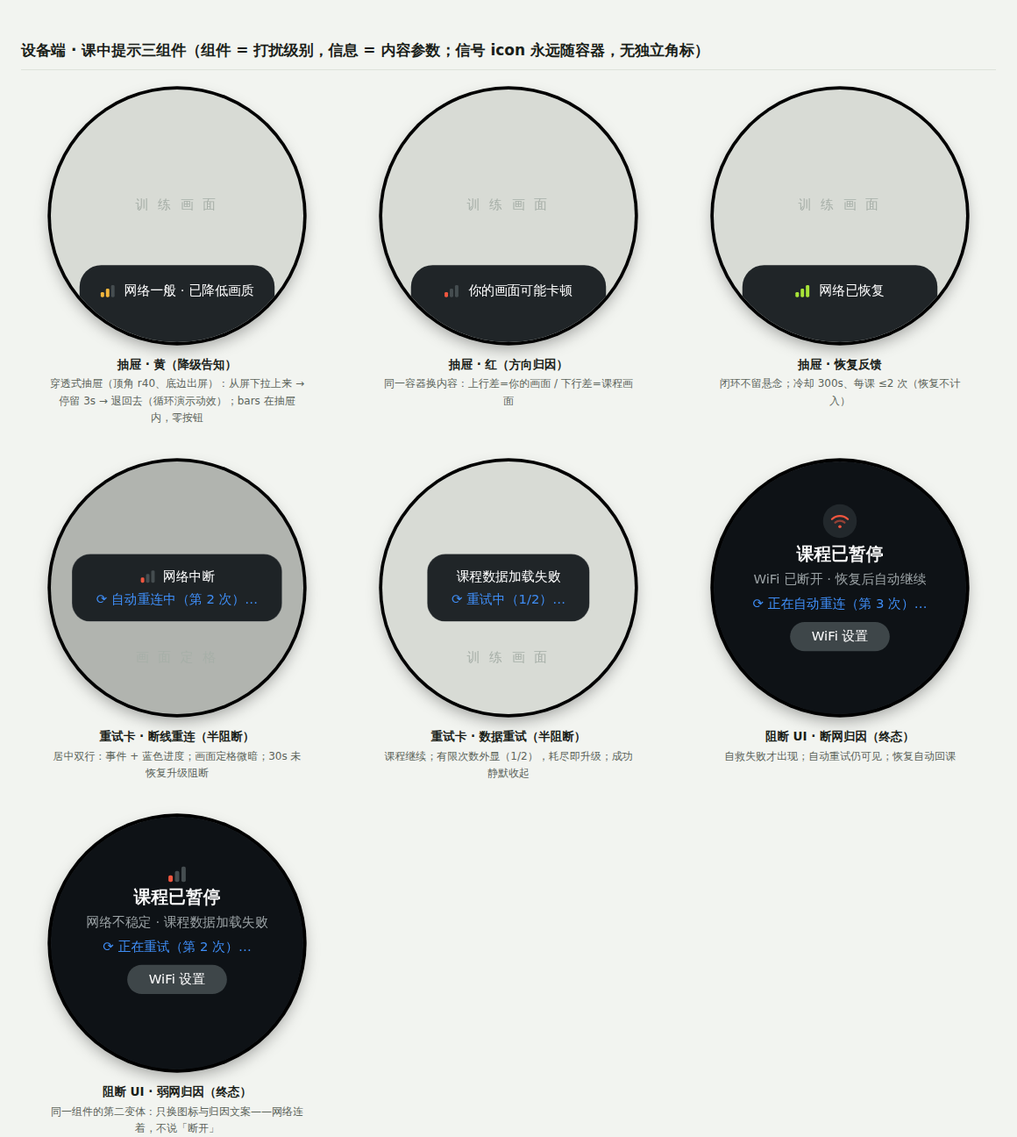
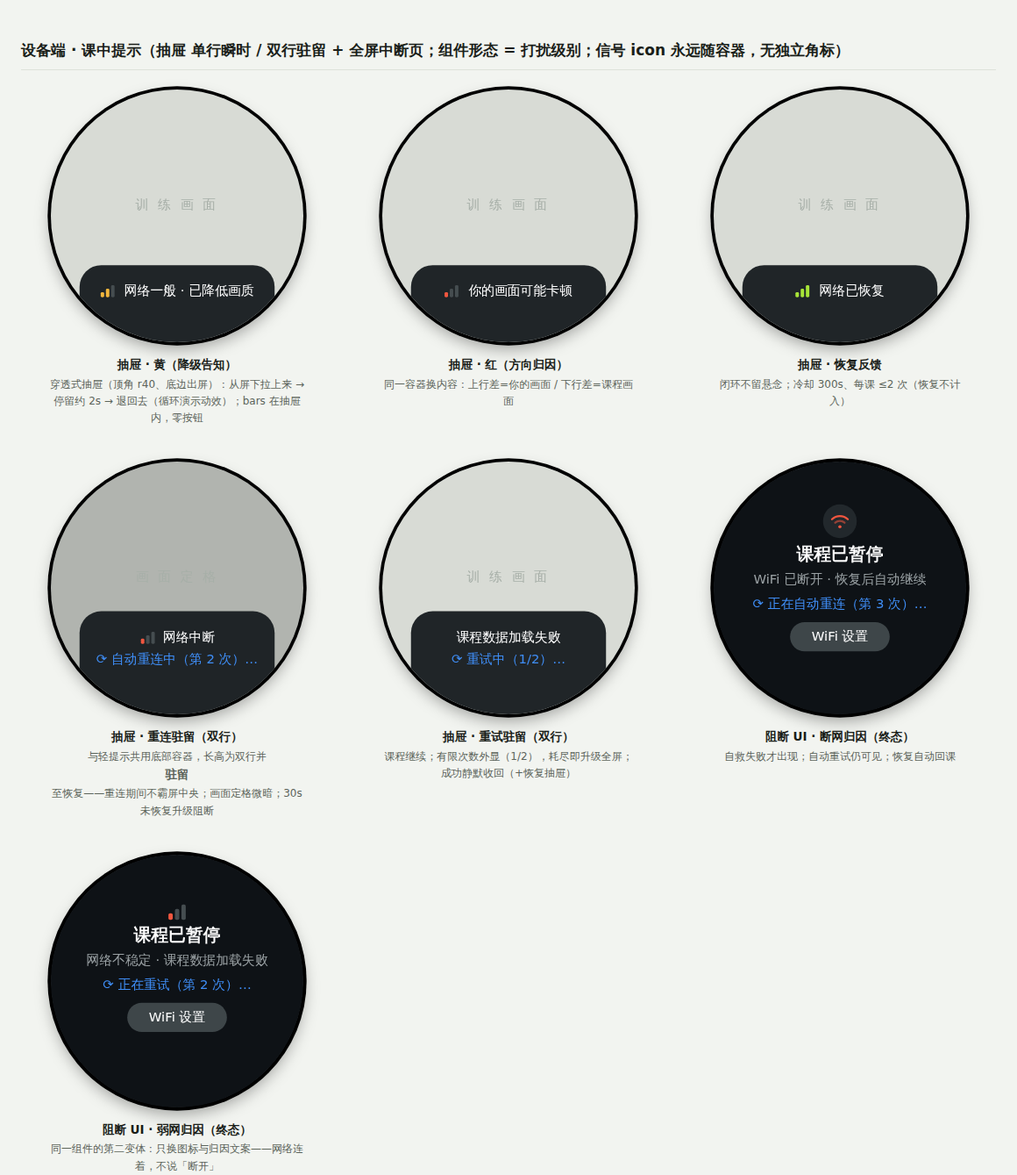
Merge retry card into the bottom drawer and add boundary/empty-state screens
In-class model per review: never interrupt while the system is still
retrying. The centered retry card is retired - medium-level hints now
share the same bottom drawer container as light hints:
- Single-line drawer: rise, hold ~2s (tightened from 3s, OTA-tunable),
  retract; cooldown/cap unchanged
- Two-line resident drawer: same container grows taller (visible
  ~190px) with event line + blue progress line, stays up during
  reconnect/retry without covering screen center; escalates to the
  fullscreen page only after 30s grace or retry exhaustion
- Disturbance level is now expressed by dwell time and container
  height in one fixed location, instead of position jumps
Update PRD-3 (component/style tables, position semantics with decision
record, state machine, event matrix, params), overview copy table, dev
checklist, README, C reference comments; regenerate drawer motion GIF
with both phases; re-export in-class figures

Speed-test app edge cases: new demo section with four screens (never
tested / no Wi-Fi / class-in-session disabled / 40s timeout with <3
samples drawn as dots only), exported and embedded in PRD-2 A4.8; add
two A4.8 rows (exit during test, class start during test)

Claude-Session: https://claude.ai/code/session_01GK61VJL6HvXSFdCeuPzjiU

diff --git a/Demo-界面交互UI设计.html b/Demo-界面交互UI设计.html
@@ -130,15 +130,19 @@
     background: rgba(26,31,34,.97); border-radius: 40px 40px 0 0;
     padding: 0 20px 46px; display: flex; align-items: center; justify-content: center;
     gap: 12px; font-size: 24px; color: #fff; white-space: nowrap;
-    animation: drawer-cycle 5.6s infinite; animation-delay: -1.2s;
+    animation: drawer-cycle 4.5s infinite; animation-delay: -1.2s;
   }
-  /* 升起 0.45s → 停留 3s → 收回 0.45s → 隐藏间歇 */
+  /* 单行轻提示：升起 0.45s → 停留约 2s → 收回 0.45s → 隐藏间歇 */
   @keyframes drawer-cycle {
     0% { transform: translate(-50%, 110%); animation-timing-function: cubic-bezier(.16,.84,.28,1); }
-    8% { transform: translate(-50%, 0); }
-    62% { transform: translate(-50%, 0); animation-timing-function: cubic-bezier(.55,.06,.68,.19); }
-    70%, 100% { transform: translate(-50%, 110%); }
+    10% { transform: translate(-50%, 0); }
+    54.4% { transform: translate(-50%, 0); animation-timing-function: cubic-bezier(.55,.06,.68,.19); }
+    64.4%, 100% { transform: translate(-50%, 110%); }
   }
+  /* 双行驻留形态：与单行共用底部容器，升高一点，重连/重试期间常驻（不霸屏中央） */
+  .drawer.two { height: 190px; flex-direction: column; gap: 6px; padding: 0 20px 52px; }
+  .drawer.two .dl2 { color: var(--dev-info); white-space: nowrap; }
+  .drawer.hold { animation: none; transform: translate(-50%, 0); }
   @media (prefers-reduced-motion: reduce) { .drawer { animation: none; } }
 
   /* 检测中波形：逐点刷新动画（每点=一次真实回调；段绘制 0.35s + 光晕脉冲；12s 循环演示） */
@@ -461,7 +465,62 @@
   </div>
 
   <!-- ═══ 设备 · 课中：三组件模型 ═══ -->
-  <h2>设备端 · 课中提示三组件（组件 = 打扰级别，信息 = 内容参数；信号 icon 永远随容器，无独立角标）</h2>
+  <h2>设备端 · 小程序边界与空态</h2>
+  <div class="grid">
+    <figure class="shot">
+      <div class="device"><div class="screen">
+        <div style="flex:1"></div>
+        <span class="bars"><i class="b1 dim"></i><i class="b2 dim"></i><i class="b3 dim"></i></span>
+        <div class="big-status" style="margin-top:8px" data-en="Not tested yet">尚未测速</div>
+        <div style="font-size:24px; color:var(--dev-sub); margin-top:6px">FITURE-5G</div>
+        <div class="btn" style="margin-top:22px" data-en="Test speed">测速</div>
+        <div style="flex:1"></div>
+      </div></div>
+      <figcaption><b>空态 · 从未测速（新机 / 恢复出厂）</b><span>三格全暗 + 「尚未测速」；不显示时效行（没有可声明时效的数据）；主按钮不变</span></figcaption>
+    </figure>
+
+    <figure class="shot">
+      <div class="device"><div class="screen">
+        <div style="flex:1"></div>
+        <svg width="52" height="40" viewBox="8 14 36 28"><path d="M14 24a17 17 0 0 1 24 0" stroke="#5c6568" stroke-width="3.4" fill="none" stroke-linecap="round"/><path d="M18.5 29a11 11 0 0 1 15 0" stroke="#5c6568" stroke-width="3.4" fill="none" stroke-linecap="round"/><circle cx="26" cy="34.5" r="2.8" fill="#5c6568"/><line x1="12" y1="38" x2="40" y2="16" stroke="#f0563f" stroke-width="3" stroke-linecap="round"/></svg>
+        <div class="big-status" style="margin-top:8px" data-en="No Wi-Fi connection">未连接 WiFi</div>
+        <div style="font-size:24px; color:var(--dev-sub); margin-top:6px" data-en="Connect to test speed">连接后可测速</div>
+        <div class="btn primary" style="margin-top:22px" data-en="Wi-Fi Settings">WiFi 设置</div>
+        <div style="flex:1"></div>
+      </div></div>
+      <figcaption><b>空态 · 未连接 WiFi</b><span>隐藏测速按钮（测了也没有意义）；主按钮 = 最短解决路径</span></figcaption>
+    </figure>
+
+    <figure class="shot">
+      <div class="device"><div class="screen">
+        <div style="flex:1"></div>
+        <span class="bars"><i class="b1" style="background:var(--dev-good)"></i><i class="b2" style="background:var(--dev-good)"></i><i class="b3" style="background:var(--dev-good)"></i></span>
+        <div class="big-status" style="margin-top:8px" data-en="Good speed">网速良好</div>
+        <div style="font-size:24px; color:var(--dev-sub); margin-top:6px" data-en="Class in session · unavailable">课程中暂不可测速</div>
+        <div class="btn" style="margin-top:22px; opacity:.38" data-en="Test speed">测速</div>
+        <div style="flex:1"></div>
+      </div></div>
+      <figcaption><b>边界 · 课程进行中（B1 课中互斥）</b><span>入口置灰 + 副行说明，不弹窗；课中灯色由 TRTC 回调驱动，完整测速与上课互斥</span></figcaption>
+    </figure>
+
+    <figure class="shot">
+      <div class="device"><div class="screen">
+        <div style="flex:.72"></div>
+        <span class="bars sm"><i class="b1 dim"></i><i class="b2 dim"></i><i class="b3 dim"></i></span>
+        <div class="big-status" style="margin-top:2px" data-en="Test timed out">检测超时</div>
+        <div class="report-card" style="margin-top:12px; padding-top:12px">
+          <svg width="330" height="40" viewBox="0 0 330 40"><line x1="0" y1="39.5" x2="330" y2="39.5" stroke="rgba(255,255,255,.22)" stroke-width="1"/><circle cx="0" cy="14" r="1.9" fill="#f2f5f6"/><circle cx="48" cy="11" r="1.9" fill="#f2f5f6"/><circle cx="0" cy="28" r="1.9" fill="#8fc2f5"/><circle cx="48" cy="26" r="1.9" fill="#8fc2f5"/></svg><div class="rc-axis"><span>0s</span><span style="opacity:.4">…40s 超时</span></div>
+          <div style="font-size:15px; color:var(--dev-sub); margin-top:4px"><span style="color:#f2f5f6">↓</span> <span data-en="Down">下行</span>&nbsp;&nbsp;<span style="color:#8fc2f5">↑</span> <span data-en="Up">上行</span>&nbsp;·&nbsp;Mbps</div>
+        </div>
+        <div class="rc-notes" style="height:64px"><div style="font-size:24px; color:var(--dev-sub)" data-en="Check network and retest">检查网络后重测</div></div>
+        <div class="btn-row"><div class="btn ghost" data-en="Retest">重测</div><div class="btn primary">OK</div></div>
+        <div style="flex:.8"></div>
+      </div></div>
+      <figcaption><b>边界 · 检测超时（40s 硬超时）</b><span>不给灯色；已回传的半程样本 &lt;3 点<b>只画点不连线</b>（样本不足不下结论、不出派生标签），随上报带出</span></figcaption>
+    </figure>
+  </div>
+
+  <h2>设备端 · 课中提示（抽屉 单行瞬时 / 双行驻留 + 全屏中断页；组件形态 = 打扰级别；信号 icon 永远随容器，无独立角标）</h2>
   <div class="grid">
 
     <figure class="shot">
@@ -470,7 +529,7 @@
         <div class="class-hint-light" data-en="W O R K O U T">训 练 画 面</div>
         <div class="drawer"><span class="bars" style="transform:scale(.8); transform-origin:left center"><i class="b1" style="background:var(--dev-warn)"></i><i class="b2" style="background:var(--dev-warn)"></i><i class="b3 dim"></i></span><span data-en="Quality reduced">网络一般 · 已降低画质</span></div>
       </div></div>
-      <figcaption><b>抽屉 · 黄（降级告知）</b><span>穿透式抽屉（顶角 r40、底边出屏）：从屏下拉上来 → 停留 3s → 退回去（循环演示动效）；bars 在抽屉内，零按钮</span></figcaption>
+      <figcaption><b>抽屉 · 黄（降级告知）</b><span>穿透式抽屉（顶角 r40、底边出屏）：从屏下拉上来 → 停留约 2s → 退回去（循环演示动效）；bars 在抽屉内，零按钮</span></figcaption>
     </figure>
 
     <figure class="shot">
@@ -494,19 +553,19 @@
     <figure class="shot">
       <div class="device"><div class="screen">
         <div class="class-bg-light" style="filter:brightness(.82)"></div>
-        <div class="class-hint-light" style="top:74%" data-en="F R O Z E N">画 面 定 格</div>
-        <div class="retry-card"><div style="display:flex; align-items:center; justify-content:center; gap:12px"><span class="bars" style="transform:scale(.8); transform-origin:center"><i class="b1" style="background:var(--dev-bad)"></i><i class="b2 dim"></i><i class="b3 dim"></i></span><span data-en="Connection lost">网络中断</span></div><div class="rt2" data-en="⟳ Reconnecting (attempt 2)…">⟳ 自动重连中（第 2 次）…</div></div>
+        <div class="class-hint-light" style="top:42%" data-en="F R O Z E N">画 面 定 格</div>
+        <div class="drawer two hold"><div style="display:flex; align-items:center; justify-content:center; gap:12px"><span class="bars" style="transform:scale(.8); transform-origin:center"><i class="b1" style="background:var(--dev-bad)"></i><i class="b2 dim"></i><i class="b3 dim"></i></span><span data-en="Connection lost">网络中断</span></div><div class="dl2" data-en="⟳ Reconnecting (attempt 2)…">⟳ 自动重连中（第 2 次）…</div></div>
       </div></div>
-      <figcaption><b>重试卡 · 断线重连（半阻断）</b><span>居中双行：事件 + 蓝色进度；画面定格微暗；30s 未恢复升级阻断</span></figcaption>
+      <figcaption><b>抽屉 · 重连驻留（双行）</b><span>与轻提示共用底部容器，长高为双行并<b>驻留</b>至恢复——重连期间不霸屏中央；画面定格微暗；30s 未恢复升级阻断</span></figcaption>
     </figure>
 
     <figure class="shot">
       <div class="device"><div class="screen">
         <div class="class-bg-light"></div>
-        <div class="class-hint-light" style="top:74%" data-en="W O R K O U T">训 练 画 面</div>
-        <div class="retry-card"><div data-en="Data load failed">课程数据加载失败</div><div class="rt2" data-en="⟳ Retrying (1/2)…">⟳ 重试中（1/2）…</div></div>
+        <div class="class-hint-light" style="top:42%" data-en="W O R K O U T">训 练 画 面</div>
+        <div class="drawer two hold"><div data-en="Data load failed">课程数据加载失败</div><div class="dl2" data-en="⟳ Retrying (1/2)…">⟳ 重试中（1/2）…</div></div>
       </div></div>
-      <figcaption><b>重试卡 · 数据重试（半阻断）</b><span>课程继续；有限次数外显（1/2），耗尽即升级；成功静默收起</span></figcaption>
+      <figcaption><b>抽屉 · 重试驻留（双行）</b><span>课程继续；有限次数外显（1/2），耗尽即升级全屏；成功静默收回（+恢复抽屉）</span></figcaption>
     </figure>
 
     <figure class="shot">
@@ -648,7 +707,7 @@
       <ol>
         <li><b>容器（穿透式）</b>：宽 360px、贴底，可见高 ≈ 142px；<b>顶部两角 r40 完整可见</b>，底边与两侧下段延伸出圆屏外、被圆缘裁掉——面板比屏幕大、从屏下拉上来；背景 rgba(26,31,34,.97)，无描边（描边留给「进行中」的重试卡）。</li>
         <li><b>内容行</b>：mini bars（灯色，报告卡同款 ×0.8）+ 单行文案 24px（≤10 全角），横向居中、纵向居可见区中部（距顶约 48px）；红档文案只说方向（「你的 / 课程画面可能卡顿」），「较差」由红色 bars 表达。</li>
-        <li><b>动效</b>：升起 0.45s（ease-out）→ 停留约 3s → 收回 0.45s（ease-in），全程贴底平移、不改形状；冷却 300s、每课 ≤2 次（恢复提示不计入）。</li>
+        <li><b>动效</b>：单行轻提示升起 0.45s（ease-out）→ 停留约 2s → 收回 0.45s（ease-in），全程贴底平移、不改形状；冷却 300s、每课 ≤2 次（恢复提示不计入）。<b>双行驻留形态</b>：同一容器长高至可见高 ≈ 190px（事件行 + 蓝色进度行），重连 / 重试期间常驻至成功或升级——中度提示不再居中霸屏。</li>
       </ol>
       <p class="anno-note">位置语义：底缘抽屉 = 轻度瞬时 → 居中重试卡 = 中度持续 → 全屏 = 阻断；任意时刻屏上最多一个提示组件。课中无独立常驻角标——bars 永远随容器出现。动效演示见课中章节（循环播放）。</p>
     </div>

diff --git a/PRD-3-课中双端提示.md b/PRD-3-课中双端提示.md
@@ -3,14 +3,14 @@
 | 项 | 内容 |
 | --- | --- |
 | 版本 | V0.9（设计中——基于现状代码 `weak_network_manager.c` 的改造方案） |
-| 范围 | ATOM 设备端课中提示（抽屉 / 重试卡 / 中断页）· 存量弹窗收敛 · 带宽保护 · 手机 App 课中 · 启动加载页 |
+| 范围 | ATOM 设备端课中提示（抽屉[单行瞬时 / 双行驻留] / 中断页）· 存量弹窗收敛 · 带宽保护 · 手机 App 课中 · 启动加载页 |
 | 前置阅读 | [`PRD-atom网络状态检测与信号同步.md`](./PRD-atom网络状态检测与信号同步.md)（三态定义 / 模块 B 检测逻辑 / 文案总表） |
 | 现状代码 | [`backup/现状代码-weak_network_manager.c`](./backup/现状代码-weak_network_manager.c)（2026-07 快照，本文 §1 逐条解读） |
 | 改造参考实现 | [`参考代码-课中提示状态机.c`](./参考代码-课中提示状态机.c)——保留原符号与重放机制的三级响应重写，可对照 diff |
 
 > 核心原则（已拉齐）：**除非真的断了，不打断用户**；识别的实时性优先于一切后台任务；重试是机器的活，不是用户的。
 
-![设备端课中三组件：抽屉三态 / 重试卡两态 / 阻断页两归因变体](./images/界面-设备端课中.png)
+![设备端课中组件：单行抽屉三态 / 双行驻留抽屉两态 / 阻断页两归因变体](./images/界面-设备端课中.png)
 
 ---
 
@@ -75,33 +75,33 @@ TRTC 链路   onNetworkQuality（约 2s 一跳）
 
 ---
 
-## 2. 目标设计：三组件模型 + 三级响应
+## 2. 目标设计：两组件（抽屉双形态 + 中断页）· 三级响应
 
-**组件模型（定稿）**：课中提示只有三个 UI 组件，**组件 = 打扰级别，信息 = 内容参数**——同一组件复用于不同消息，用户看到组件形态就知道该不该动手：
+**组件模型（定稿）**：课中提示只有**两个 UI 组件**（抽屉、全屏中断页），抽屉有单行 / 双行两种形态，对应三个打扰级别——**组件形态 = 打扰级别，信息 = 内容参数**——同一组件复用于不同消息，用户看到组件形态就知道该不该动手：
 
 | 组件 | 打扰级别 | 形态特征 | 承载内容（实例） | 出口 |
 | --- | --- | --- | --- | --- |
-| **抽屉**（轻度） | 非阻断 | **从底缘升起 → 停留约 3s → 收回**、零按钮、冷却 300s + 每课 ≤2 次 | 「网络一般 · 已降低画质」/「你的 / 课程画面可能卡顿」（红 bars 即「网络较差」，文案只说方向）/「网络已恢复」 | 自动收回，无状态 |
-| **重试 UI**（重试卡） | 半阻断 | 屏幕中央双行卡、**系统自救中**、进度可见（第 N 次）、无按钮、无需操作 | 「网络中断 + ⟳ 自动重连中（第 N 次）…」（画面定格）/「课程数据加载失败 + ⟳ 重试中（1/2）…」（画面继续） | **只有两个**：成功 → 静默收起（+恢复抽屉）；超时/耗尽 → 升级阻断 UI |
+| **抽屉 · 单行**（轻度） | 非阻断 | **从底缘升起 → 停留约 2s → 收回**（评审由 3s 收紧：轻提示看一眼即走）、零按钮、冷却 300s + 每课 ≤2 次 | 「网络一般 · 已降低画质」/「你的 / 课程画面可能卡顿」（红 bars 即「网络较差」，文案只说方向）/「网络已恢复」 | 自动收回，无状态 |
+| **抽屉 · 双行驻留**（中度） | 非阻断（驻留） | **与单行共用同一底部容器**，长高为双行并**驻留**至恢复——重连 / 重试期间**不霸屏中央**；系统自救中、进度可见（第 N 次）、无按钮、无需操作 | 「网络中断 + ⟳ 自动重连中（第 N 次）…」（画面定格）/「课程数据加载失败 + ⟳ 重试中（1/2）…」（画面继续） | **只有两个**：成功 → 静默收回（+恢复抽屉）；超时/耗尽 → 升级阻断 UI |
 | **阻断 UI**（中断页） | 阻断（终态） | 全屏、**自救已失败、轮到用户**；自动重试仍持续可见；唯一按钮「WiFi 设置」 | 「课程已暂停 · WiFi 已断开」/「课程已暂停 · 网络不稳定」（同组件两个归因变体） | **只有一个**：网络恢复 → 自动回课 |
 
 **组件样式规范（466×466 圆屏）**（抽屉的逐项标注图见 [`images/界面-设计规范标注.png`](./images/界面-设计规范标注.png) 下半部分）：
 
 | 组件 | 位置（空间语义） | 结构 | 规格 | 动效与时长 |
 | --- | --- | --- | --- | --- |
-| 抽屉 | **穿透式底部抽屉**：比屏幕大、从屏下拉上来的面板——顶部两角 r40 完整可见，底边与两侧下段延伸出圆屏外（被圆缘裁掉），贴底 | mini bars（灯色）+ 单行文案，内容行居可见区中部 | 宽 360px、可见高 ≈ 142px；文案 24px、≤10 全角 | 升起 0.45s（ease-out）→ 停留约 3s → 收回 0.45s（ease-in）；冷却 300s、≤2 次/课（恢复不计入） |
-| 重试 UI | **屏幕中央双行胶囊卡**——挡在内容前但不占满屏，正是「半阻断」的空间表达 | 第 1 行事件（「网络中断」/「课程数据加载失败」）+ 第 2 行蓝色进度（「⟳ 自动重连中（第 N 次）…」/「⟳ 重试中（1/2）…」，**有限次数外显**，耗尽即升级） | 两行均 24px、事件行 ≤8 全角；1.5px 白 16% 描边——与报告卡同一视觉语言：**描边 = 进行中的容器** | 持续显示至成功（静默收起 + 恢复抽屉）或超时/耗尽升级；spinner 匀速旋转；断线变体画面定格调暗 50%，数据变体画面继续 |
+| 抽屉 · 单行 | **穿透式底部抽屉**：比屏幕大、从屏下拉上来的面板——顶部两角 r40 完整可见，底边与两侧下段延伸出圆屏外（被圆缘裁掉），贴底 | mini bars（灯色）+ 单行文案，内容行居可见区中部 | 宽 360px、可见高 ≈ 142px；文案 24px、≤10 全角 | 升起 0.45s（ease-out）→ 停留约 2s（1–2s 区间取上限，OTA 可调）→ 收回 0.45s（ease-in）；冷却 300s、≤2 次/课（恢复不计入） |
+| 抽屉 · 双行驻留 | **同一底部容器的加高形态**（宽 360px、可见高 ≈ 190px、顶角 r40 穿透式）——中度提示不再居中霸屏 | 第 1 行事件（「网络中断」+ 红 bars /「课程数据加载失败」）+ 第 2 行蓝色进度（「⟳ 自动重连中（第 N 次）…」/「⟳ 重试中（1/2）…」，**有限次数外显**，耗尽即升级） | 两行均 24px、事件行 ≤8 全角；无描边（与抽屉一致），「进行中」由蓝色进度行 + spinner 表达 | 直接双行升起（或单行原位长高）后**驻留**至成功（静默收回 + 恢复抽屉）或超时/耗尽升级；spinner 匀速旋转；断线变体画面定格调暗 50%，数据变体画面继续 |
 | 阻断 UI | 全屏 | 归因图标（断网 = 扇形断开 / 弱网 = 红 1 格 bars）→ 标题 32「课程已暂停」→ 归因副行 24 灰 → 重试进度行 24 蓝 → 实底按钮「WiFi 设置」 | 沿用全局三档字号（32/24/15）与按钮规范 | 恢复 → 自动回课 + 恢复抽屉 |
 
-![抽屉出现与退出动效：从屏下拉上来 → 停留 3s → 退回去](./images/动效-课中抽屉.gif)
+![抽屉动效：单行轻提示 从屏下拉上来 → 停留约 2s → 退回去；随后双行驻留形态升起并常驻](./images/动效-课中抽屉.gif)
 
-**位置语义（打扰级别的空间表达）**：**底缘抽屉 = 轻度瞬时** → **居中卡 = 中度持续**（挡在内容前）→ **全屏 = 阻断**。侵入面积随级别递增，位置本身就是语义。**课中无独立常驻角标（评审决议）**：网络信号 icon（bars）**永远跟随内容容器出现**——抽屉内、重试卡内、阻断页内；单独挂在画面顶部的状态图标属于常驻噪音，且与「提示即事件」冲突，灯的常驻表达由课前入口（PRD-1/2）承担。
+**位置语义（打扰级别的空间表达，V1.2 修订）**：所有课中提示**共用同一个底部容器空间**——**单行抽屉 = 轻度瞬时**（约 2s 即收）→ **双行抽屉 = 中度驻留**（重连 / 重试进行中，常驻但不遮画面中央）→ **全屏 = 阻断**。打扰级别由**驻留时长与容器高度**表达，提示位置不再跳变。**决策记录**：原方案中度用屏幕居中卡——被否：重连可能持续数十秒，居中卡长时间挡在画面中央与「只要还在重试就不打断用户」的原则矛盾；合并进抽屉后，用户建立单一预期「网络的事都在底部」。**课中无独立常驻角标（评审决议）**：网络信号 icon（bars）**永远跟随内容容器出现**——抽屉内（单行 / 双行）、阻断页内；单独挂在画面顶部的状态图标属于常驻噪音，且与「提示即事件」冲突，灯的常驻表达由课前入口（PRD-1/2）承担。
 
-**字号标准（探索结论）**：沿用全局三档（32/24/15），课中只动用两档——**32 仅用于全屏页标题**（阻断 UI「课程已暂停」），**24 用于一切组件内文案、进度行、按钮**；15 元信息层课中无内容。**一致性原则：字号跟随内容层级，不跟随打扰级别**——同一句提示在轻度抽屉和中度重试卡里字号相同（24），升级感全部由容器形态与位置表达（贴底单行 → 居中双行 → 全屏）。若字号随级别放大，同一句文案会出现三种大小，且「大字 = 重要」会与「全屏标题 32」的既有语义打架；中度级别的信息增量靠**加第二行**（进度），不靠加大字号。
+**字号标准（探索结论）**：沿用全局三档（32/24/15），课中只动用两档——**32 仅用于全屏页标题**（阻断 UI「课程已暂停」），**24 用于一切组件内文案、进度行、按钮**；15 元信息层课中无内容。**一致性原则：字号跟随内容层级，不跟随打扰级别**——同一句提示在单行与双行抽屉里字号相同（24），升级感全部由容器高度与驻留时长表达（贴底单行瞬时 → 贴底双行驻留 → 全屏）。若字号随级别放大，同一句文案会出现三种大小，且「大字 = 重要」会与「全屏标题 32」的既有语义打架；中度级别的信息增量靠**加第二行**（进度），不靠加大字号。
 
-**互斥规则**：重试卡显示期间不再弹抽屉（状态已在屏）；阻断 UI 显示期间其余组件全部不出——任意时刻屏上最多一个提示组件。
+**互斥规则**：同一底部容器天然互斥——单行与双行不叠加，双行驻留期间新的轻度事件不另弹（信息并入或忽略）；阻断 UI 显示期间抽屉收回——任意时刻屏上最多一个提示组件。
 
-配套两条硬规则：① **单向升级**——事件只能沿 抽屉 → 重试卡 → 阻断页 变重，绝不反向（用户看到重试卡就知道"系统在忙"，看到阻断就知道"该我了"）；② **恢复即回落**——任何一级在网络恢复时自动消退，不需要用户确认。课中没有第 0 层常驻角标（评审决议，见上）——无事件时屏上没有任何网络元素。
+配套两条硬规则：① **单向升级**——事件只能沿 单行抽屉 → 双行驻留 → 阻断页 变重，绝不反向（用户看到双行驻留就知道"系统在忙"，看到阻断就知道"该我了"）；② **恢复即回落**——任何一级在网络恢复时自动消退，不需要用户确认。课中没有第 0 层常驻角标（评审决议，见上）——无事件时屏上没有任何网络元素。
 
 ### 三级响应状态机
 
@@ -109,10 +109,10 @@ TRTC 链路   onNetworkQuality（约 2s 一跳）
 
 ```
                        ┌────────────────────────────────────────────────┐
- onNetworkQuality ──►  │ 抽屉（轻度）  灯色下降沿弹一次：升起→3s→收回      │  轻提醒
+ onNetworkQuality ──►  │ 抽屉（轻度）  灯色下降沿弹一次：升起→约2s→收回    │  轻提醒
  (worst(local,remote)) │              bars 随抽屉出现，无事件时屏上无网络元素│
                        └────────────────────────────────────────────────┘
- onDisconnected ────►  重试卡「网络中断 · 自动重连中…」（半阻断，画面定格）
+ onDisconnected ────►  双行抽屉驻留「网络中断 + 自动重连中…」（画面定格，不霸屏）
       └─ 重连超 30s ►  ┌────────────────────────────────────────────────┐
  关键 HTTP 断网 ─────►  │ Tier 2 · 全屏中断页（唯一阻断样式）              │  阻断
                        └────────────────────────────────────────────────┘
@@ -127,7 +127,7 @@ TRTC 链路   onNetworkQuality（约 2s 一跳）
 
 **优化后形态全览与现状逐入口映射**（弹窗组件整体退役；中断页为同一组件的两个归因变体，课程是「暂停」而非「退出」，恢复自动回课）：
 
-![优化后课中提示形态：底部抽屉 / 两种重试卡 / 中断页双归因变体 + 现状映射表](./images/优化后-课中提示形态.png)
+![优化后课中提示形态：单行抽屉 / 两种双行驻留抽屉 / 中断页双归因变体 + 现状映射表](./images/优化后-课中提示形态.png)
 
 ### 2.1 事件 × 响应总表（开发实现与 QA 测试矩阵）
 
@@ -138,11 +138,11 @@ TRTC 链路   onNetworkQuality（约 2s 一跳）
 | quality 5（红） | 防抖 3 跳，下降沿 | 抽屉方向归因（上行差=你的画面 / 下行差=课程画面，红 bars 随抽屉） | 抽屉 |
 | quality 抖动 3↔4 | — | **无提示**（同档内变化无下降沿） | 0 |
 | 瞬时抖动 <10s 自愈 | 未过防抖 | 无提示 | 0 |
-| `onDisconnected` | 立即 | 居中重试卡「网络中断 · 自动重连中…」，画面定格 | 重试卡 |
-| 断线持续 | 重试卡超 **30s** | 升级 Tier 2 全屏中断页（**断网归因**，自动重试可见，唯一按钮 WiFi 设置） | 阻断 |
-| `onConnected` | 任意 | 收重试卡 / 中断页 + 抽屉「网络已恢复」 | 抽屉 |
+| `onDisconnected` | 立即 | 双行抽屉升起驻留「网络中断 + 自动重连中…」，画面定格 | 双行驻留 |
+| 断线持续 | 驻留超 **30s** | 升级 Tier 2 全屏中断页（**断网归因**，自动重试可见，唯一按钮 WiFi 设置） | 阻断 |
+| `onConnected` | 任意 | 收双行驻留 / 中断页 + 单行抽屉「网络已恢复」 | 抽屉 |
 | HTTP 可延后请求超时 | 打点 / 上报 / 组间上传 | 静默重试 ≤2 次 → 本地缓存恢复后补传；**永不上屏** | 0 |
-| HTTP 关键请求超时 | 进课鉴权 / 课程资源 | 第 1 次静默重试 → 第 2 次带重试卡「课程数据加载失败 · 重试中…」→ 耗尽 Tier 2（**弱网归因**） | 0→重试卡→阻断 |
+| HTTP 关键请求超时 | 进课鉴权 / 课程资源 | 第 1 次静默重试 → 第 2 次双行抽屉驻留「课程数据加载失败 + 重试中…」→ 耗尽 Tier 2（**弱网归因**） | 0→双行驻留→阻断 |
 | HTTP 确认断网 | 立即 | Tier 2（断网归因） | 阻断 |
 | 抽屉限流 | 全程 | 冷却 300s + 每课 ≤2 次；进课清零配额 | — |
 
@@ -150,7 +150,7 @@ TRTC 链路   onNetworkQuality（约 2s 一跳）
 
 | 级别 | 例子 | 失败处理 |
 | --- | --- | --- |
-| **关键**（阻断课程流程） | 进课鉴权、课程资源拉取 | 静默自动重试 1 次（复用 `pending_ctx` 重放）→ 仍失败：断网 → Tier 2；超时 → 重试卡「课程数据加载失败 · 重试中…」再试 1 次 → 仍失败 → Tier 2 |
+| **关键**（阻断课程流程） | 进课鉴权、课程资源拉取 | 静默自动重试 1 次（复用 `pending_ctx` 重放）→ 仍失败：断网 → Tier 2；超时 → 双行抽屉驻留「课程数据加载失败 + 重试中…」再试 1 次 → 仍失败 → Tier 2 |
 | **可延后**（后台数据） | 打点、进度上报、组间报告上传 | 静默入队重试（上限 2 次），失败本地缓存、恢复后补传；**永不上屏** |
 
 ### 2.3 现有代码改造映射（函数级）
@@ -161,7 +161,7 @@ TRTC 链路   onNetworkQuality（约 2s 一跳）
 | `TRTC_QUALITY_BAD_THRESH=4` 等宏 | **改造** | 黄 = 3–4，红 = 5；`TRTC_WEAK_TRIGGER_COUNT` 2→3（对齐全局防抖） |
 | `trtc_retry_cooldown`（8 跳） | **改造** | 换成 `drawer_last_sec`（300s）+ `drawer_cnt`（≤2/课，进课时清零） |
 | `weak_network_trtc_retry_clicked` / `trtc_show_weak_overlay_cb` | **移除** | 假重试删除（P2）；TRTC 弱网不再有 overlay |
-| `notify_trtc_disconnected`（1 次即跳断网页） | **改造** | 先重试卡「自动重连中…」+ 计时；**超 30s** 才 Tier 2（SDK 有自动重连，别抢跑） |
+| `notify_trtc_disconnected`（1 次即跳断网页） | **改造** | 先双行抽屉驻留「自动重连中…」+ 计时；**超 30s** 才 Tier 2（SDK 有自动重连，别抢跑） |
 | `notify_trtc_connected` | **保留+** | 追加「网络已恢复」抽屉 |
 | `notify_timeout`（HTTP 超时→overlay） | **改造** | 按 §2.2 分级：可延后请求静默化；关键请求先静默自动重试（复用重放机制），耗尽才 Tier 2 |
 | `weak_network_on_retry_clicked` | **改造** | 保留重放实体，触发方从「用户点击」改为「系统定时」 |
@@ -170,7 +170,7 @@ TRTC 链路   onNetworkQuality（约 2s 一跳）
 | 5 处散落的复位块 | **重构** | 提取 `wn_reset_all()`（P9） |
 | `is_showing` / `pending_ctx` / `s_pre_page` / `lv_async_call` 模式 | **保留** | 原样沿用 |
 
-新增状态字段：`drawer_cnt`、`drawer_last_sec`（抽屉限流）、`retry_since_sec`（重试卡起始，判 30s 升级）、进课统一走 `wn_reset_all()` 清零计数（字段名与参考代码一致）。
+新增状态字段：`drawer_cnt`、`drawer_last_sec`（抽屉限流）、`retry_since_sec`（双行驻留起始，判 30s 升级）、进课统一走 `wn_reset_all()` 清零计数（字段名与参考代码一致）。
 
 ### 2.4 参数表（旧 → 新，全部进 OTA 配置）
 
@@ -181,8 +181,9 @@ TRTC 链路   onNetworkQuality（约 2s 一跳）
 | 提示冷却 | 8 跳 ≈ 16s | 300s | 16s 后再弹仍是轰炸 |
 | 每课提示上限 | 无 | 2 次 | 上限比冷却更硬 |
 | 手动重试上限 | 2 次 | —（移除手动重试） | 重试是机器的活 |
-| 断线 → 阻断页 | 立即（1 次回调） | 重试卡立即 + **30s** 后升级 | 给 SDK 自动重连留时间 |
+| 断线 → 阻断页 | 立即（1 次回调） | 双行抽屉立即驻留 + **30s** 后升级 | 给 SDK 自动重连留时间 |
 | POOR(3) 语义 | 中立清零 | 黄档 | 消灭「3↔4 抖动永不响应」死区 |
+| 单行抽屉停留时长 | —（原 overlay 常驻） | 约 2s（1–2s 区间取上限，OTA 可调） | 轻提示看一眼即走，最小打扰 |
 
 ---
 
@@ -210,7 +211,7 @@ TRTC 链路   onNetworkQuality（约 2s 一跳）
 | --- | --- | --- |
 | **C-P0 · 最小改动包** | ① 带宽保护（§3）；② 移除 TRTC 假重试（P2）；③ 弱网耗尽跳错页修复（P3）；④ POOR 归入黄档消灭死区（P4）；⑤ 复位重构（P9） | **纯逻辑修改，不依赖任何新 UI**，当前版本即可合入 |
 | C-P1 | 轻度抽屉（含方向归因、冷却、每课上限） | 依赖抽屉组件 |
-| C-P2 | Tier 2 全屏中断页 + 重试卡 + HTTP 请求分级静默化 | 替换存量 overlay，弹窗全量收敛 |
+| C-P2 | Tier 2 全屏中断页 + 双行驻留抽屉 + HTTP 请求分级静默化 | 替换存量 overlay，弹窗全量收敛 |
 | C-P3 | 手机端（§4）+ 启动加载页（§5） | App 侧排期 |
 
 ## 7. 待确认
@@ -220,4 +221,4 @@ TRTC 链路   onNetworkQuality（约 2s 一跳）
 | `onNetworkQuality` 当前是否已拿到 local + remote 双通道 | 客户端 | P5 方向归因的实现成本 |
 | HTTP mtype 清单与关键性分级 | 客户端 | §2.2 分级表落地 |
 | TRTC SDK 自动重连的实际行为与超时（30s 取值校准） | 蔡博 | Tier 2 升级时机 |
-| 抽屉 / 重试卡组件是否已有现成实现 | UI | C-P1/P2 排期 |
+| 抽屉组件（单行 / 双行两形态）是否已有现成实现 | UI | C-P1/P2 排期 |

diff --git a/README.md b/README.md
@@ -10,10 +10,10 @@
 | 根目录 | [`PRD-1-常驻入口-WiFi列表与通知.md`](PRD-1-常驻入口-WiFi列表与通知.md) | 子 PRD：WiFi 列表页 · 控制中心磁贴 · 通知栏（唯一网络位 + 内容升级） | 系统 UI 评审 |
 | 根目录 | [`PRD-2-网速测试小程序.md`](PRD-2-网速测试小程序.md) | 子 PRD：测速小程序六态、报告卡规范、按钮槽位、边界保护 | 小程序评审 |
 | 根目录 | [`PRD-3-课中双端提示.md`](PRD-3-课中双端提示.md) | 子 PRD：**现状代码解读与函数级改造映射**、三级响应状态机、带宽保护、手机端、启动页；含可立即执行的 C-P0 最小改动包 | 课中评审、客户端 |
-| 根目录 | [`Demo-界面交互UI设计.html`](Demo-界面交互UI设计.html) | **可演示的示意图 Demo**（设备端 14 屏 + 手机端 3 屏 + 附录设计规范标注），浏览器直接打开，右上角中 / EN 切换 | 设计、评审演示 |
+| 根目录 | [`Demo-界面交互UI设计.html`](Demo-界面交互UI设计.html) | **可演示的示意图 Demo**（设备端 18 屏含边界空态 + 手机端 3 屏 + 附录设计规范标注），浏览器直接打开，右上角中 / EN 切换 | 设计、评审演示 |
 | 根目录 | [`开发注意事项-业务逻辑清单.md`](开发注意事项-业务逻辑清单.md) | **开发核对清单**：互斥 / 防抖 / 时效 / 边界 / 通知升级回落等业务规则一页速查 + 待确认阻塞项 | 客户端、固件、后端 |
 | 根目录 | [`参考代码-网络检测状态机.c`](参考代码-网络检测状态机.c) | 设备端 C 参考实现：采样调度、按 SSID 缓存、防抖、时效、40s 超时、通知条目升级状态机、指标着色、TRTC 接线（含文件测速备选） | 固件开发 |
-| 根目录 | [`参考代码-课中提示状态机.c`](参考代码-课中提示状态机.c) | 课中三级响应参考实现：weak_network_manager.c 的改造版（保留原符号与重放机制），抽屉/重试卡/中断页三组件 + HTTP 分级静默重试 | 客户端（课中） |
+| 根目录 | [`参考代码-课中提示状态机.c`](参考代码-课中提示状态机.c) | 课中三级响应参考实现：weak_network_manager.c 的改造版（保留原符号与重放机制），抽屉（单行/双行驻留）+ 中断页 + HTTP 分级静默重试 | 客户端（课中） |
 | 根目录 | [`参考代码-后端服务.py`](参考代码-后端服务.py) | 服务端 FastAPI 参考实现：批量上报入库、阈值 OTA 下发、备选文件测速端点（ping/download/upload）、客服时间线聚合 | 后端开发 |
 | `images/` | 界面-*.png · 动效-*.gif | PRD 内嵌截图与动效（从 Demo 导出的资源文件），无需单独查看 | — |
 | `backup/` | 决策参考与迭代过程.html · 现状代码-weak_network_manager.c | **历史思考过程与现状代码快照，归档不启用**：位置对比、图标论证、V0.1→V1.0 时间线；与 PRD 不一致时以 PRD 为准 | 评审追溯备查 |
@@ -32,7 +32,7 @@
 3. **主按钮 = 最短解决路径**：绿 → 完成，黄 → 重测，红 → WiFi 设置；「重试 / OK」类按钮全部移除；
 4. **不为检测挤占上课带宽**：常驻只用轻探测（约 35 KB/小时），真测速仅用户触发且课中互斥；
 5. **不用旧结论冒充现状**：样本超 5 分钟过期，宁可显示「检测中…」；灯色不跨 WiFi 继承；
-6. **课中不打断**：除非真断线且自动重连失败，否则一律非阻断组件——底部穿透式抽屉（自动收回）或居中重试卡（系统自救中）；课中无独立常驻角标。
+6. **课中不打断**：除非真断线且自动重连失败，否则一律底部抽屉——单行轻提示约 2s 即收，重连 / 重试用双行驻留形态（不霸屏中央）；**只要系统还在自动重试就不打断用户**；课中无独立常驻角标。
 
 ## 版本
 

diff --git a/PRD-atom网络状态检测与信号同步.md b/PRD-atom网络状态检测与信号同步.md
@@ -173,7 +173,7 @@ ATOM 是一台通过 WiFi 联网的嵌入式训练设备，上课时通过 TRTC 
 
 ## 6. 模块 C · 课中提示（已拆分为子 PRD）
 
-→ [`PRD-3-课中双端提示.md`](./PRD-3-课中双端提示.md)：现状代码（weak_network_manager.c）解读与差距分析、三组件模型（底部抽屉 / 重试卡 / 全屏中断页）、函数级改造映射、带宽保护、手机端与启动页。**其中带宽保护与三处 bug 级修复可立即执行（C-P0）。**
+→ [`PRD-3-课中双端提示.md`](./PRD-3-课中双端提示.md)：现状代码（weak_network_manager.c）解读与差距分析、两组件模型（底部抽屉单行/双行 + 全屏中断页）、函数级改造映射、带宽保护、手机端与启动页。**其中带宽保护与三处 bug 级修复可立即执行（C-P0）。**
 
 ## 7. 状态文案表（双语）
 
@@ -200,7 +200,7 @@ ATOM 是一台通过 WiFi 联网的嵌入式训练设备，上课时通过 TRTC 
 | 小程序超时态 | > 40 秒 | 检测超时 / 检查网络后重测 | Test timed out / Check network and retest |
 | 小程序按钮 | — | 测速 / 重测 / OK / 取消 / WiFi 图标（= 去 WiFi 设置） | Speed test / Retest / OK / Cancel / Wi-Fi icon |
 | 设备课中抽屉 | 黄 / 红上行 / 红下行 | 网络一般 · 已降低画质 / 你的画面可能卡顿 / 课程画面可能卡顿（红 bars 随抽屉即「较差」） | Quality reduced / Your video may lag / Class video may lag |
-| 课中重试卡 | 重连中 | 网络中断 · 自动重连中（第 N 次）… | Connection lost · reconnecting… |
+| 课中双行抽屉（驻留） | 重连中 | 网络中断 + ⟳ 自动重连中（第 N 次）… | Connection lost · reconnecting… |
 | 全屏中断页 | WiFi 断开 | 网络已断开 / 课程已暂停 · WiFi 已断开 / 正在自动重连（第 N 次）… / WiFi 设置 | Wi-Fi disconnected / Class paused / Reconnecting (attempt N)… / Wi-Fi Settings |
 | 全屏中断页 | 有 WiFi 无公网 | 网络无法连接 / 课程已暂停 · 已连 WiFi，无法访问互联网 | No internet / Class paused · Wi-Fi connected |
 | 恢复抽屉 | 重连成功 | 网络已恢复 | Back online |
@@ -232,5 +232,5 @@ ATOM 是一台通过 WiFi 联网的嵌入式训练设备，上课时通过 TRTC 
 | 阶段 | 范围 | 验收口径 |
 | --- | --- | --- |
 | **M1**（P0） | 模块 B（检测调度 + 测速实现）+ 模块 A 全部界面 | 各入口灯色一致；测速可用且课中互斥；过期样本不外显灯色 |
-| **M2**（P1） | 模块 C：C1 抽屉/重试卡、C2 弹窗收敛、C3 带宽保护（可提前）、C4 手机端、C5 启动页 | 课中不再出现需手动确认的弱网弹窗；提示可归因到端；进课无无解释黑屏 |
+| **M2**（P1） | 模块 C：C1 抽屉（单行/双行）、C2 弹窗收敛、C3 带宽保护（可提前）、C4 手机端、C5 启动页 | 课中不再出现需手动确认的弱网弹窗；提示可归因到端；进课无无解释黑屏 |
 | **M3**（P2） | B5 上报 + 客服时间线 + 通知条目长期升级态 + 阈值 OTA + 小程序历史记录 | 客服可按设备归因；阈值云端可调 |

diff --git a/PRD-2-网速测试小程序.md b/PRD-2-网速测试小程序.md
@@ -54,7 +54,10 @@
   - **数值口径（波形 = 过程，四指标 = 结论）**：结果页四个数字取 **SDK 最终回调的整体聚合值**——`rtt` / `lossRate` / `availableUp(Down)Bandwidth` 由官方在整次测速结束时汇总输出，**我们不对波形逐点自行求平均**（丢包取上下行较大值 ×100%，见总览 B3 映射表）；波形负责展示过程（含掉速时刻），指标负责给结论，两者数据源一致但口径不同。备选文件测速路径：上/下行 = 各自测试窗内的平均吞吐，ping = 多次采样取中位数；样本方差超阈值时由「网络波动较大」派生标签提示（见 A4.3）；
   - **定格复用**：测速结束波形数据原样冻结进结果页报告卡（同一份数据、同一组件），不重绘不重采样；
   - **字号三档制**（466px 屏基准，**全小程序只用 3 个字号**）：**大 32 = 结论标题**（每页唯一）；**中 24 = 指标数值、影响、建议、按钮、副行文案（节点进度 / 取消 / 首页时效）**；**小 15 = SSID、日期时间、指标列标题、时间轴刻度、图例**。档内层级不靠字号、靠**字重与颜色**：数值 = 中号加粗（白或阈值色）、影响 = 中号白、建议 = 中号灰、SSID = 小号浅白、其余小号灰。演进记录：V1.0 中期一度用到 7 个字号（32/24/22/17/15/14/13），已收敛为三档。结果页顶部 bars 用小号字形（格高 9/15/21px）并预留顶部安全边距——顶排元素离表圈最近，宁小勿裁；组间距大于组内距，宁可留白也不顶到表圈。
-- **A4.8 边界 · 空态 · 显示保护**（Demo 失败态屏含超长 SSID 截断示例）：
+- **A4.8 边界 · 空态 · 显示保护**（Demo 有专门的「边界与空态」一节：从未测速 / 未连接 WiFi / 课程中置灰 / 检测超时四屏，另失败态屏含超长 SSID 截断示例）：
+
+![小程序边界与空态：从未测速 / 未连接 WiFi / 课程进行中 / 检测超时（样本<3 点只画点）](./images/界面-小程序边界与空态.png)
+
 
 | 场景 | 处理 |
 | --- | --- |
@@ -70,6 +73,8 @@
 | 大带宽数值 | < 10 Mbps 保留 1 位小数，≥ 10 Mbps 取整（如「88」，单位在列标题）；四指标用等宽数字（tabular figures），刷新不跳动 |
 | 波形样本 < 3 点（提前中断 / 极端快） | 只画采样点不连线；不出「网络波动较大」派生标签（样本不足不下结论） |
 | 设备时钟未同步 | 表头时间显示「时间未同步」，上报侧改用相对时间戳，避免假日期误导 debug |
+| **测速中退出小程序 / 息屏** | 立即调 `stopSpeedTest` 取消任务（后台不继续消耗带宽），再次进入回首页缓存态 |
+| **测速中课程开始**（预约课自动进课） | 课中互斥优先：立即取消测速，进课不被阻塞；已回传半程样本随上报带出 |
 
 **结果页设计规范标注**（七个分区的字号 / 颜色 / 规则速查；下半部分为课中穿透式抽屉规范，属 PRD-3 范围，同图收录；完整交互见 Demo 附录）：
 

diff --git a/开发注意事项-业务逻辑清单.md b/开发注意事项-业务逻辑清单.md
@@ -43,7 +43,8 @@
 
 ## 5. 课中（详见 [`PRD-3-课中双端提示.md`](./PRD-3-课中双端提示.md)，含现状代码函数级改造映射）
 
-- [ ] 轻度抽屉（穿透式底部面板，顶角 r40、底边出屏）冷却 5 分钟、每节课最多 2 次、升起 3s 自动收回、零操作；方向归因（上行差=你的画面 / 下行差=课程画面）；**课中无独立常驻角标——bars 永远随容器出现**；
+- [ ] 轻度抽屉（穿透式底部面板，顶角 r40、底边出屏）冷却 5 分钟、每节课最多 2 次、升起约 2s 自动收回、零操作；方向归因（上行差=你的画面 / 下行差=课程画面）；**课中无独立常驻角标——bars 永远随容器出现**；
+- [ ] **重连 / 重试驻留 = 双行抽屉**（与轻提示共用底部容器，长高驻留，不居中霸屏）：事件行 + 蓝色进度行（第 N 次外显）；成功静默收回、超时 30s / 次数耗尽才升级全屏；**只要还在自动重试就不打断用户**；
 - [ ] **带宽保护**：动作识别期间暂停后台上传；重进课程取消未完成的上传队列（v1 不做断点续传）；
 - [ ] 全屏中断页是**唯一**允许的阻断样式（仅真断线且自动重连失败）；「重试 / OK」类手动确认弹窗全部移除。
 
